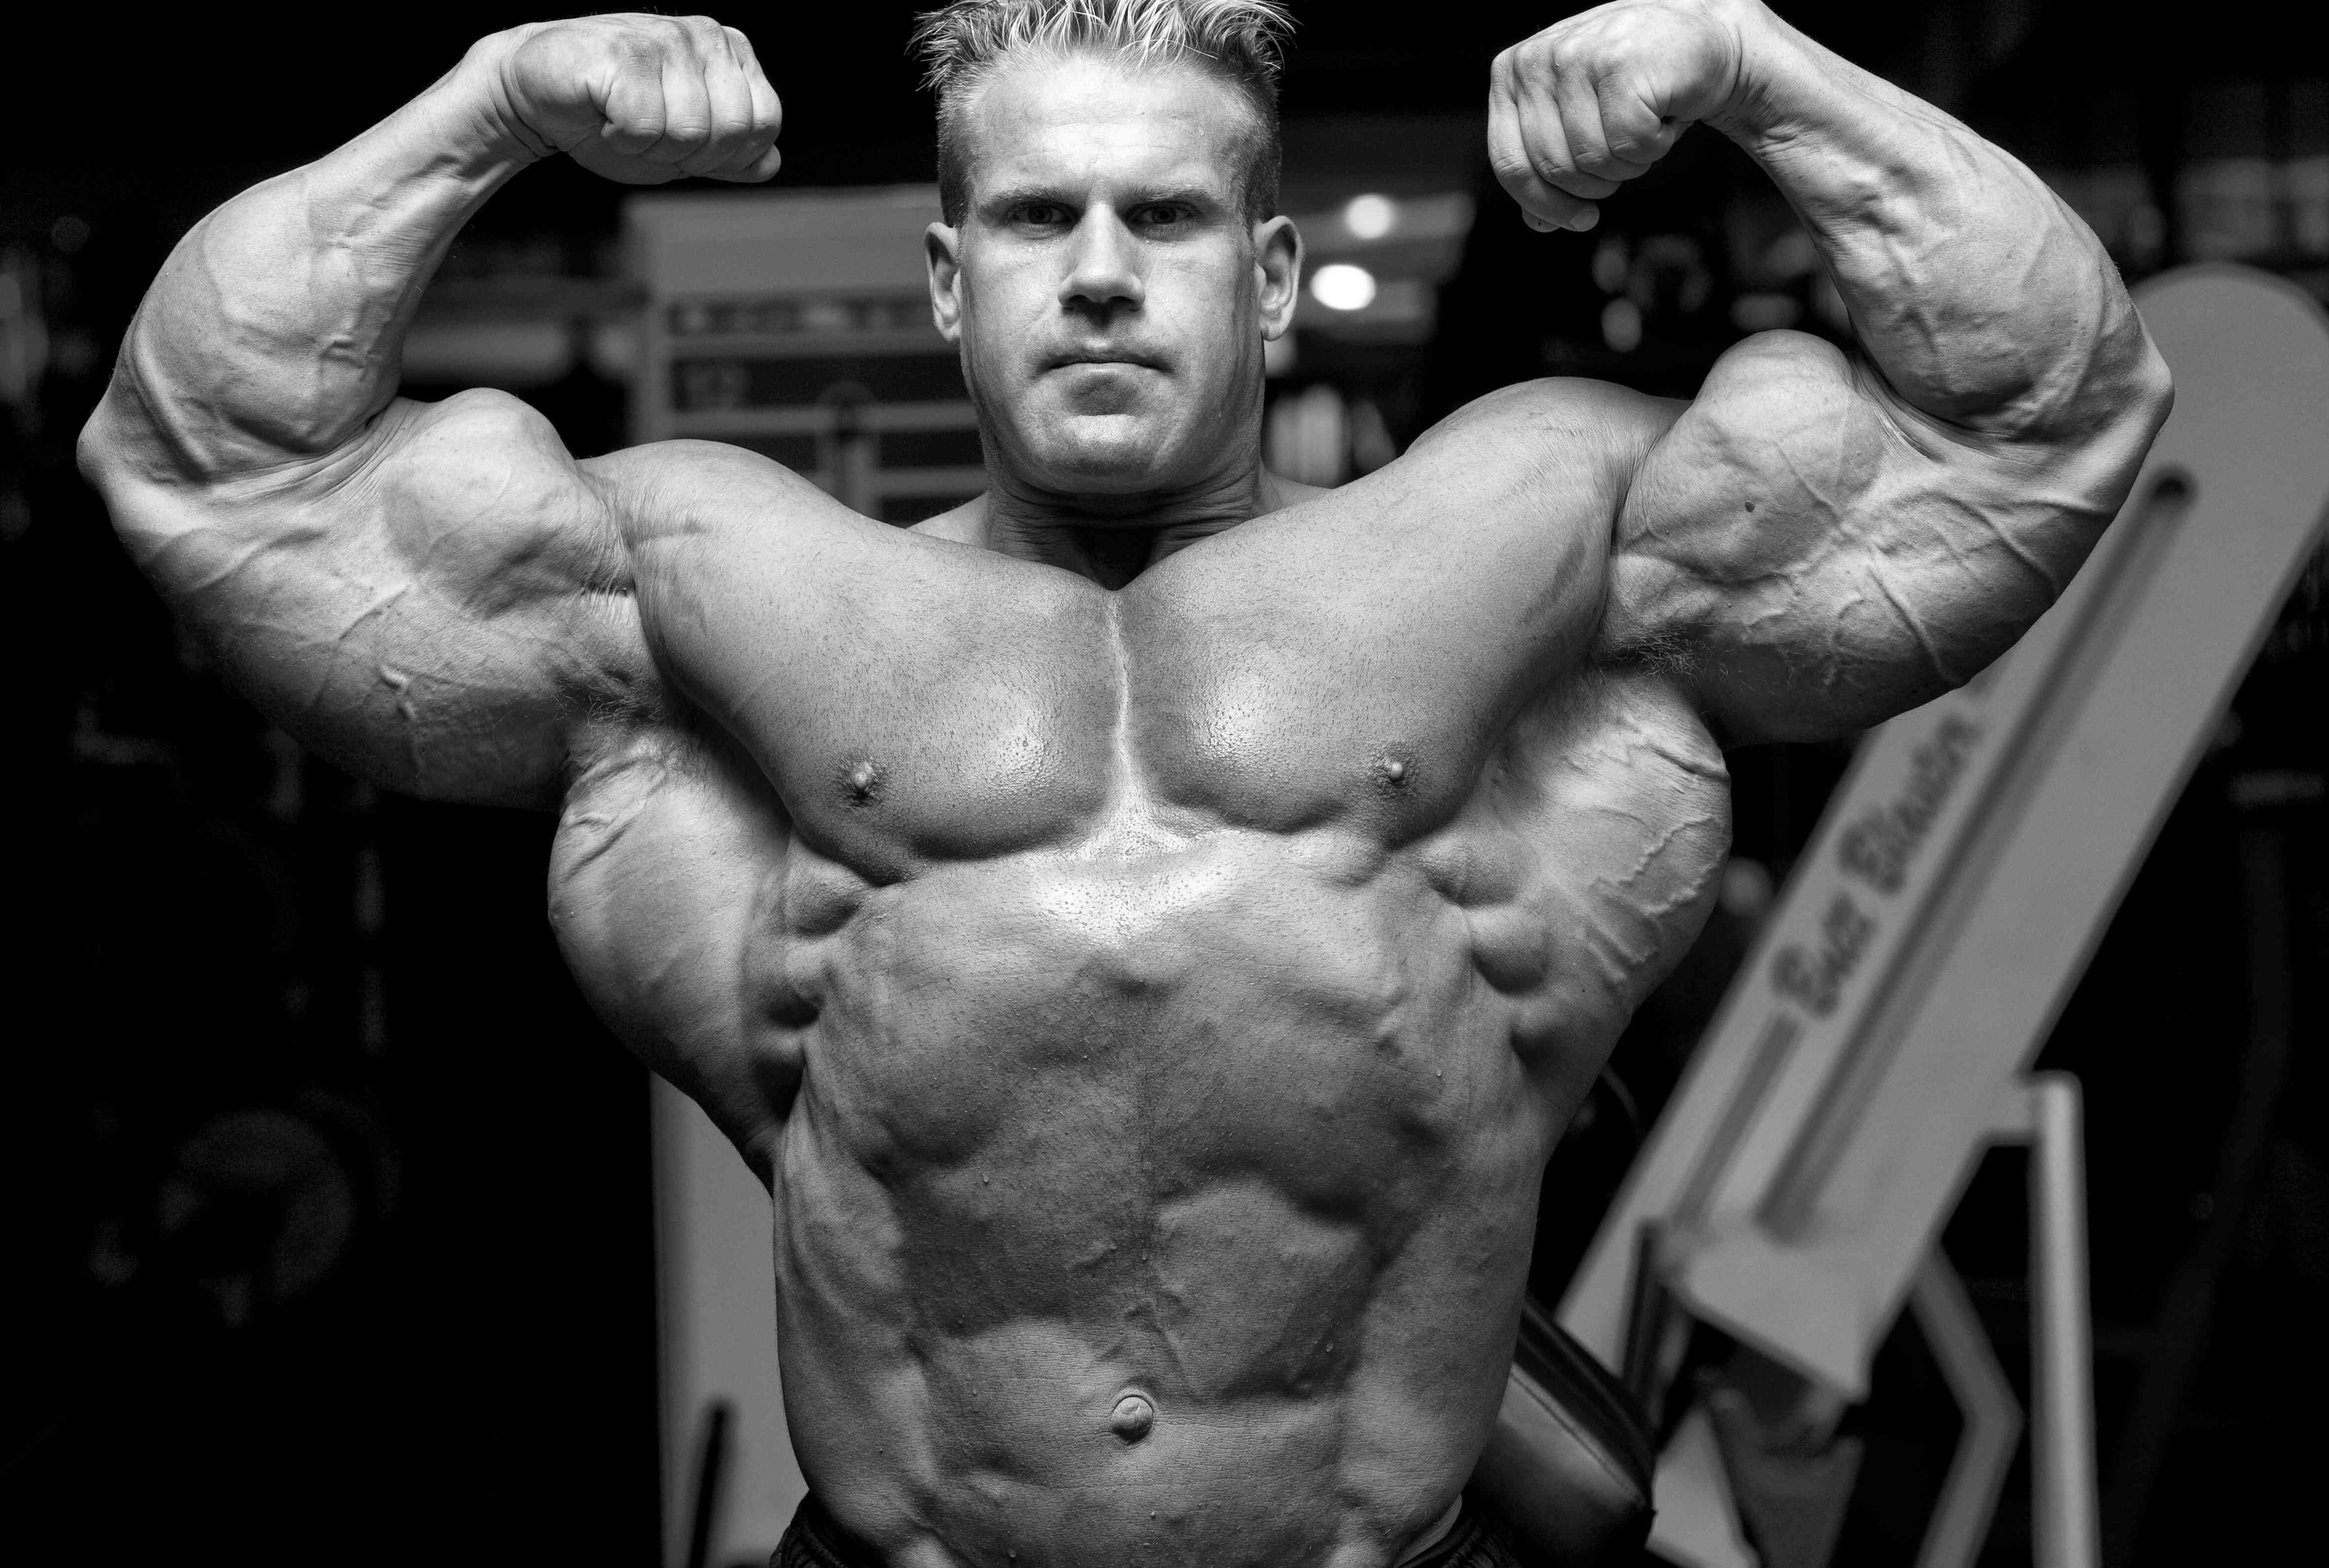
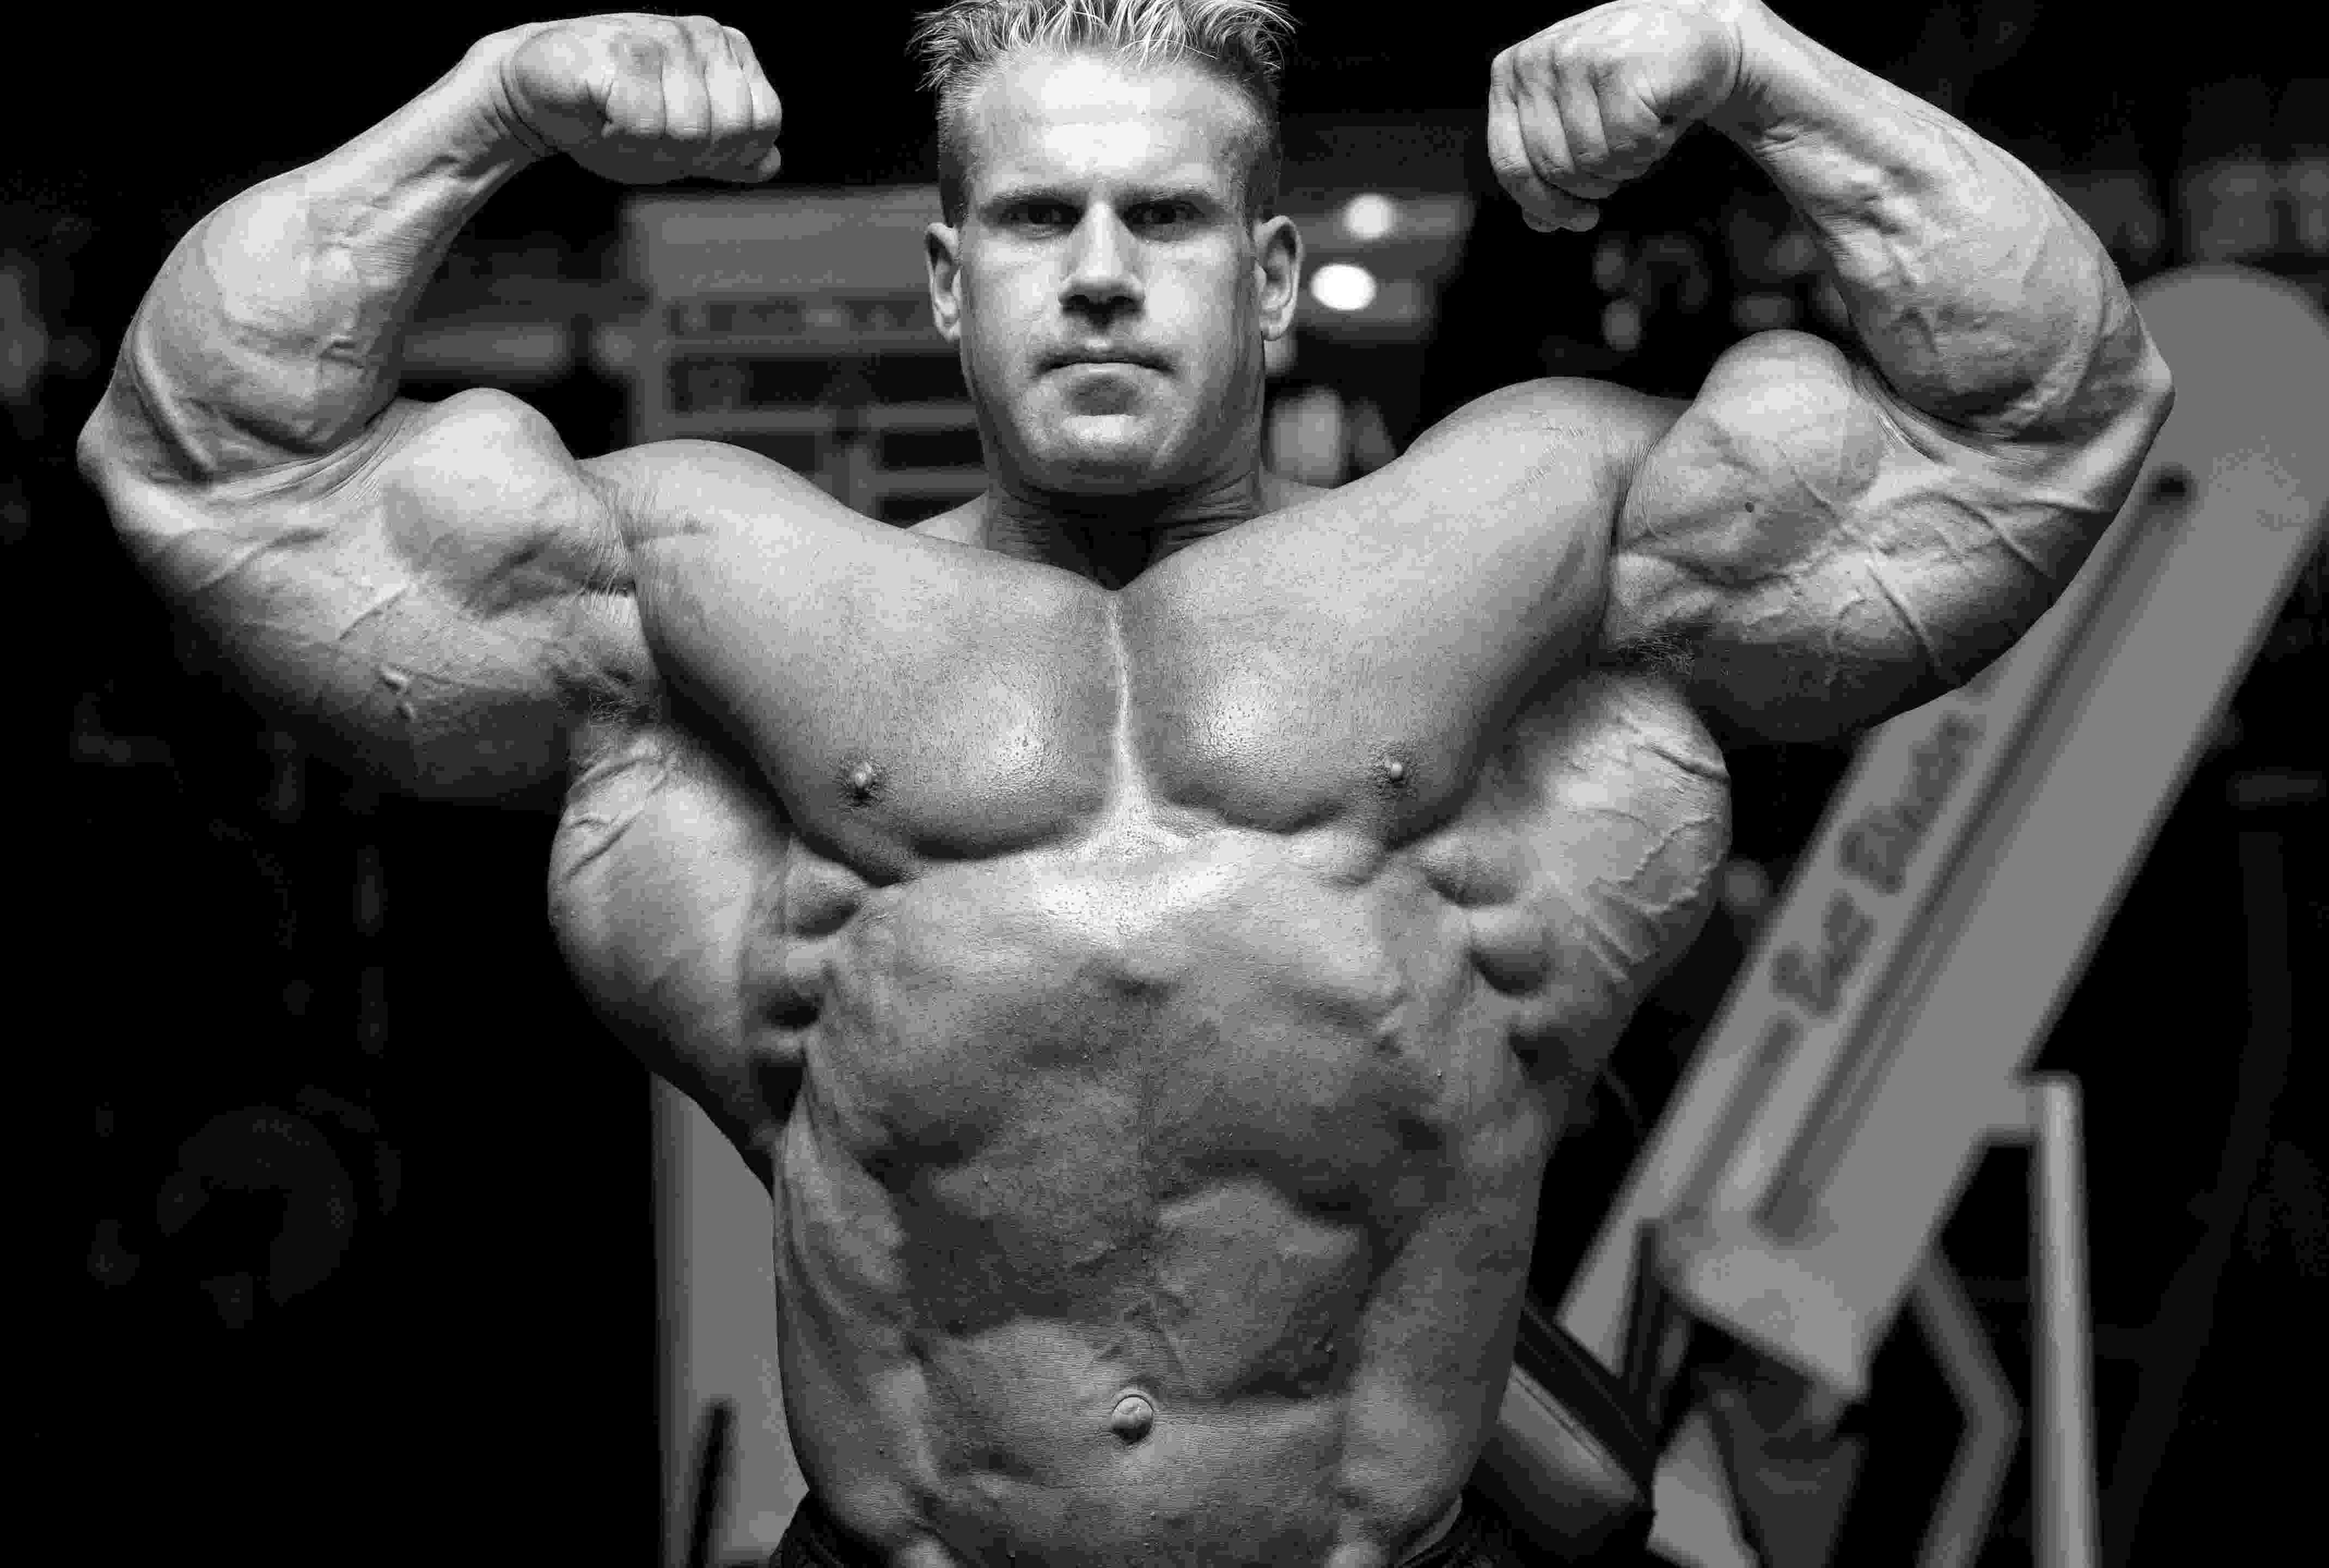
Update Commit

diff --git a/frontend/src/pages/LibrarySimple.jsx b/frontend/src/pages/LibrarySimple.jsx
@@ -520,10 +520,10 @@ export default function LibrarySimple() {
             {/* Olympic Lifting */}
             <ExerciseCard
               image={Library6}
-              title="Olympic Lifting"
+              title="Heavy Lifting"
               subtitle="Elite Technique"
               description="Advanced lifting techniques and form"
-              category="olympic"
+              category="lifting"
               delay={0.5}
             />
             
